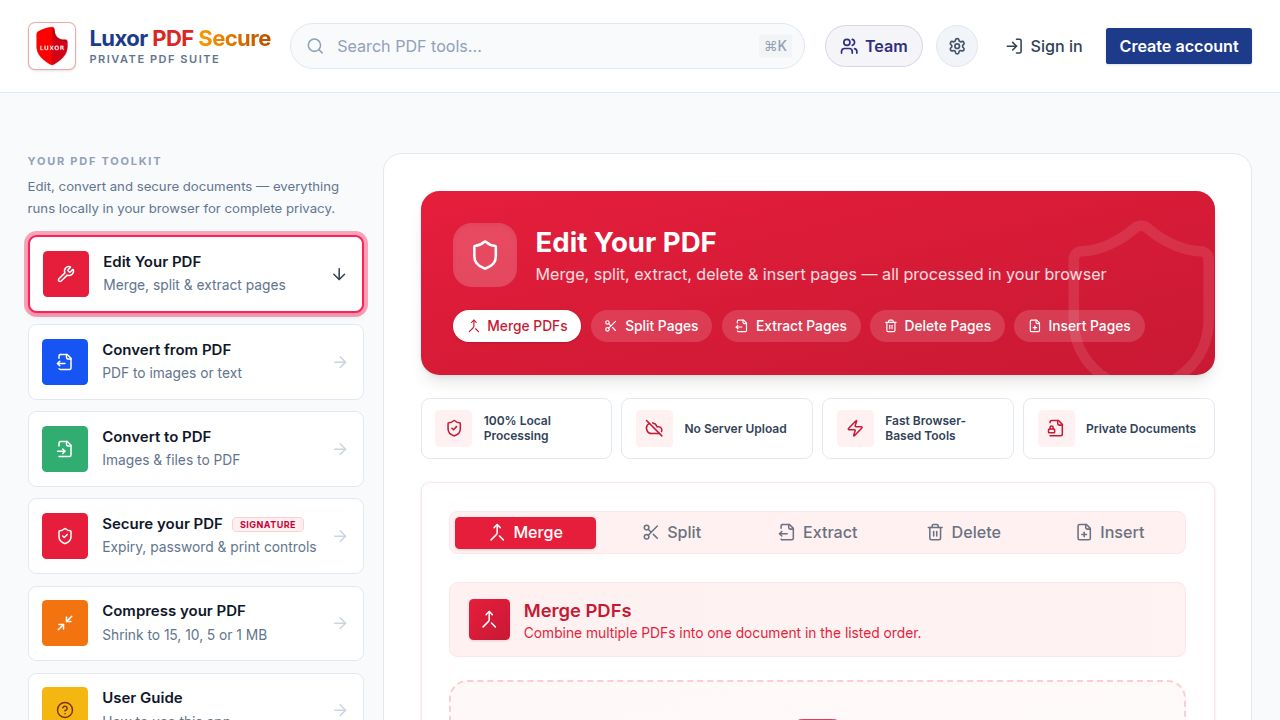
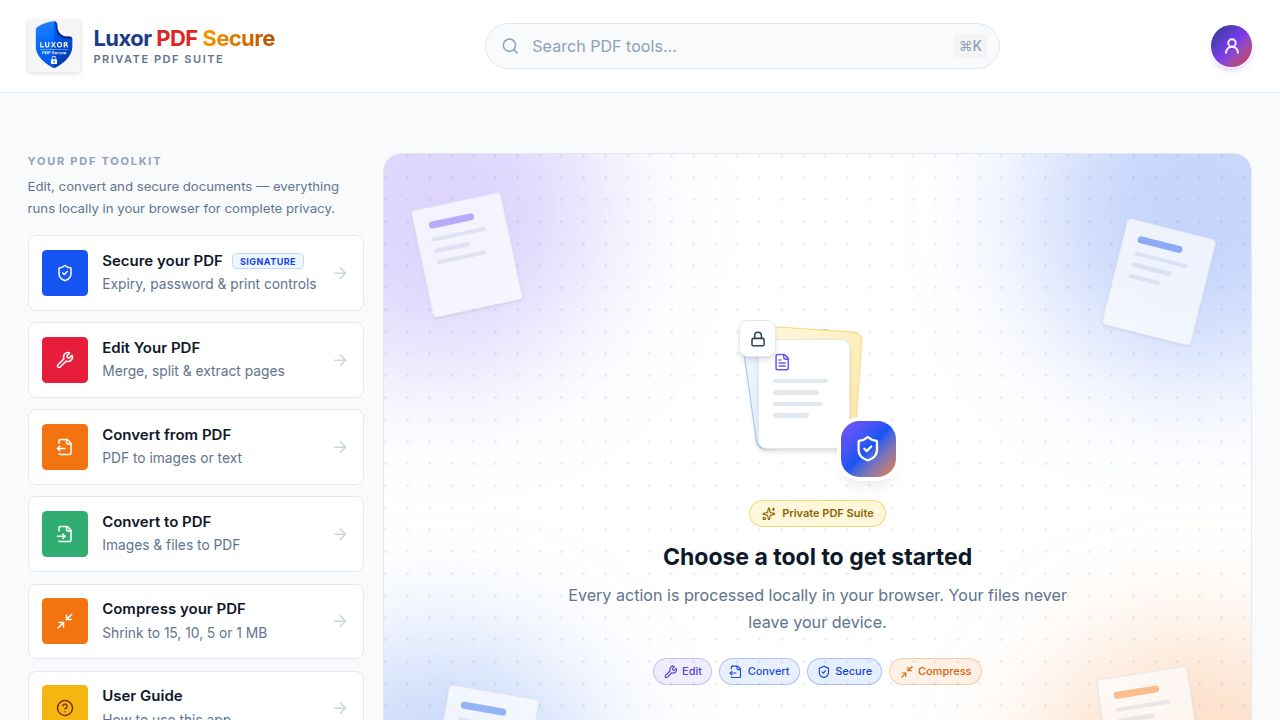
Make online PDF tools free for all users
Update authentication hooks to allow bypassing sign-in and quota checks for online tools like convert, compress, and edit.

Replit-Commit-Author: Agent
Replit-Commit-Session-Id: 4e355f6e-68d5-45e4-8c24-68816a891cd0
Replit-Commit-Checkpoint-Type: full_checkpoint
Replit-Commit-Event-Id: 1de909a3-0dd3-408e-be0e-287b009e9999
Replit-Commit-Screenshot-Url: https://storage.googleapis.com/screenshot-production-us-central1/4170004a-1faf-4c15-ace7-247f51abd493/4e355f6e-68d5-45e4-8c24-68816a891cd0/LHctmcE
Replit-Helium-Checkpoint-Created: true

diff --git a/artifacts/lexsecure-landing/src/pages/online-tools.tsx b/artifacts/lexsecure-landing/src/pages/online-tools.tsx
@@ -5,13 +5,11 @@ import {
   FileInput,
   Minimize2,
   ArrowRight,
-  Lock,
   Zap,
   ShieldCheck,
 } from "lucide-react";
 import { Navbar } from "@/components/layout/Navbar";
 import { Footer } from "@/components/layout/Footer";
-import { goToSignIn, goToSignUp } from "@/lib/authUrls";
 
 /**
  * Online Tools landing page.
@@ -21,11 +19,9 @@ import { goToSignIn, goToSignUp } from "@/lib/authUrls";
  * is reserved for the Luxor PDF Secure desktop app.
  *
  * Each "Open tool" CTA links to the corresponding route inside the
- * `pdf-expiry` artifact. That artifact enforces:
- *   - Sign-in is mandatory (anonymous users are redirected to /sign-in
- *     with a redirect_url back to the requested tool).
- *   - Free accounts get a 5-actions-per-day shared quota across all
- *     tools, enforced server-side in `getLicenseStatus` / `recordUsage`.
+ * `pdf-expiry` artifact. These tools are free for everyone: no sign-in
+ * and no usage quota (the upload/guard gates are bypassed for them).
+ * Only "Secure your PDF" (password & expiry) remains paid/gated.
  */
 
 const SUITE_BASE = "/pdf-expiry";
@@ -110,17 +106,16 @@ export default function OnlineToolsPage() {
               Online PDF Tools
             </h1>
             <p className="mt-4 text-lg text-slate-600 max-w-2xl mx-auto">
-              Edit, convert and compress your PDFs straight from the web.
-              Sign in to use any tool — your free account includes{" "}
+              Edit, convert and compress your PDFs straight from the web —{" "}
               <span className="font-semibold text-[#1E1B4B]">
-                2 free actions every 24 hours
-              </span>{" "}
-              across the whole suite.
+                free for everyone
+              </span>
+              , with no account or sign-in required.
             </p>
 
-            <div className="mt-6 inline-flex items-center gap-2 px-3 py-1.5 rounded-full text-xs font-medium bg-amber-50 text-amber-800 border border-amber-200">
-              <Lock className="w-3.5 h-3.5" />
-              Sign-in required · Free account is enough
+            <div className="mt-6 inline-flex items-center gap-2 px-3 py-1.5 rounded-full text-xs font-medium bg-emerald-50 text-emerald-800 border border-emerald-200">
+              <Zap className="w-3.5 h-3.5" />
+              Free to use · No sign-in needed
             </div>
           </motion.div>
         </section>
@@ -165,7 +160,7 @@ export default function OnlineToolsPage() {
           </div>
         </section>
 
-        {/* ── Why sign-in / quota strip ────────────────────────── */}
+        {/* ── Free & private strip ─────────────────────────────── */}
         <section className="container mx-auto px-6 max-w-5xl mt-20">
           <motion.div
             initial="hidden"
@@ -174,36 +169,16 @@ export default function OnlineToolsPage() {
             variants={FADE_UP}
             className="rounded-2xl bg-gradient-to-br from-[#312E81] via-[#3730A3] to-[#2563EB] p-8 md:p-10 text-white shadow-xl shadow-[#312E81]/20"
           >
-            <div className="grid md:grid-cols-3 gap-6 items-center">
-              <div className="md:col-span-2">
-                <h2 className="text-2xl font-bold">
-                  Why we ask you to sign in
-                </h2>
-                <p className="mt-2 text-white/80 leading-relaxed">
-                  Your account is what tracks the 2-action daily quota and
-                  keeps your work history available across devices. New
-                  here? Creating an account takes 30 seconds — no credit
-                  card required.
-                </p>
-              </div>
-              <div className="flex md:flex-col gap-3 md:items-end">
-                <button
-                  type="button"
-                  onClick={goToSignUp}
-                  className="inline-flex items-center justify-center gap-2 rounded-lg bg-white text-[#312E81] font-semibold px-5 py-2.5 shadow-md hover:shadow-lg hover:-translate-y-0.5 transition-all"
-                  data-testid="online-tools-create-account"
-                >
-                  Create free account
-                </button>
-                <button
-                  type="button"
-                  onClick={goToSignIn}
-                  className="inline-flex items-center justify-center gap-2 rounded-lg bg-white/10 text-white font-semibold px-5 py-2.5 border border-white/30 hover:bg-white/20 transition-all"
-                  data-testid="online-tools-sign-in"
-                >
-                  I already have an account
-                </button>
-              </div>
+            <div className="max-w-2xl">
+              <h2 className="text-2xl font-bold">
+                Free, and it stays in your browser
+              </h2>
+              <p className="mt-2 text-white/80 leading-relaxed">
+                Every tool here is free to use — no account, no sign-in and
+                no daily limits. Your files are processed right in your
+                browser, so nothing is uploaded to a server just to edit,
+                convert or compress a PDF.
+              </p>
             </div>
           </motion.div>
         </section>

diff --git a/artifacts/pdf-expiry/src/pages/convert-tool.tsx b/artifacts/pdf-expiry/src/pages/convert-tool.tsx
@@ -122,7 +122,7 @@ function DropZone({
   const c = accentDrop
     ? { ...accentDrop, icon: "text-white" }
     : convertDropColors[colorScheme];
-  const upload = useUploadAuthGate();
+  const upload = useUploadAuthGate({ bypass: true });
 
   const handleDrop = useCallback(
     (e: React.DragEvent) => {
@@ -191,7 +191,7 @@ const IMAGE_TYPES = ["image/jpeg", "image/png", "image/webp", "image/gif", "imag
 
 function ImagesToPdf() {
   const accentBtn = useAccentBtn("from-emerald-600 to-teal-600 hover:from-emerald-700 hover:to-teal-700");
-  const guard = useGuardedAction();
+  const guard = useGuardedAction({ bypass: true });
   const [files, setFiles] = useState<File[]>([]);
   const [loading, setLoading] = useState(false);
   const [error, setError] = useState<string | null>(null);
@@ -288,7 +288,7 @@ function ImagesToPdf() {
 
 function WordToPdf() {
   const accentBtn = useAccentBtn("from-sky-600 to-blue-700 hover:from-sky-700 hover:to-blue-800");
-  const guard = useGuardedAction();
+  const guard = useGuardedAction({ bypass: true });
   const [file, setFile] = useState<File | null>(null);
   const [done, setDone] = useState(false);
   const [loading, setLoading] = useState(false);
@@ -466,7 +466,7 @@ function WordToPdf() {
 
 function ExcelToPdf() {
   const accentBtn = useAccentBtn("from-lime-600 to-green-700 hover:from-lime-700 hover:to-green-800");
-  const guard = useGuardedAction();
+  const guard = useGuardedAction({ bypass: true });
   const [file, setFile] = useState<File | null>(null);
   const [sheetCount, setSheetCount] = useState<number | null>(null);
   const [done, setDone] = useState(false);
@@ -658,7 +658,7 @@ type ImageFormatValue = typeof IMAGE_FORMATS[number]["value"];
 
 function PdfToImages() {
   const accentBtn = useAccentBtn("from-orange-500 to-amber-500 hover:from-orange-600 hover:to-amber-600");
-  const guard = useGuardedAction();
+  const guard = useGuardedAction({ bypass: true });
   const [file, setFile] = useState<File | null>(null);
   const [pageCount, setPageCount] = useState<number | null>(null);
   const [scale, setScale] = useState<number>(2);
@@ -863,7 +863,7 @@ function PdfToImages() {
 // ─── PDF → Word ───────────────────────────────────────────────────────────────
 
 function PdfToWord() {
-  const guard = useGuardedAction();
+  const guard = useGuardedAction({ bypass: true });
   const accentBtn = useAccentBtn("from-amber-500 to-yellow-500 hover:from-amber-600 hover:to-yellow-600");
   const [file, setFile] = useState<File | null>(null);
   const [pageCount, setPageCount] = useState<number | null>(null);
@@ -1110,7 +1110,7 @@ function PdfToWord() {
 // ─── PDF → Excel ──────────────────────────────────────────────────────────────
 
 function PdfToExcel() {
-  const guard = useGuardedAction();
+  const guard = useGuardedAction({ bypass: true });
   const accentBtn = useAccentBtn("from-green-600 to-emerald-700 hover:from-green-700 hover:to-emerald-800");
   const [file, setFile] = useState<File | null>(null);
   const [pageCount, setPageCount] = useState<number | null>(null);

diff --git a/artifacts/pdf-expiry/src/pages/pdf-tool.tsx b/artifacts/pdf-expiry/src/pages/pdf-tool.tsx
@@ -70,7 +70,7 @@ function FileDropZone({
   const inputRef = useRef<HTMLInputElement>(null);
   const accentDrop = useAccentDrop();
   const c = accentDrop ? { ...accentDrop, icon: "text-white" } : dropColors[colorScheme];
-  const upload = useUploadAuthGate();
+  const upload = useUploadAuthGate({ bypass: true });
 
   const handleDrop = useCallback(
     (e: React.DragEvent) => {
@@ -158,7 +158,7 @@ async function readFileAsArrayBuffer(file: File): Promise<ArrayBuffer> {
 
 function MergeTab() {
   const accentBtn = useAccentBtn("from-violet-600 to-indigo-600 hover:from-violet-700 hover:to-indigo-700");
-  const guard = useGuardedAction();
+  const guard = useGuardedAction({ bypass: true });
   const [files, setFiles] = useState<File[]>([]);
   const [loading, setLoading] = useState(false);
   const [error, setError] = useState<string | null>(null);
@@ -256,7 +256,7 @@ function MergeTab() {
 
 function SplitTab() {
   const accentBtn = useAccentBtn("from-indigo-600 to-blue-600 hover:from-indigo-700 hover:to-blue-700");
-  const guard = useGuardedAction();
+  const guard = useGuardedAction({ bypass: true });
   const [file, setFile] = useState<File | null>(null);
   const [pageCount, setPageCount] = useState<number | null>(null);
   const [loading, setLoading] = useState(false);
@@ -383,7 +383,7 @@ function SplitTab() {
 
 function ExtractTab() {
   const accentBtn = useAccentBtn("from-purple-600 to-violet-600 hover:from-purple-700 hover:to-violet-700");
-  const guard = useGuardedAction();
+  const guard = useGuardedAction({ bypass: true });
   const [file, setFile] = useState<File | null>(null);
   const [pageCount, setPageCount] = useState<number | null>(null);
   const [selectedPages, setSelectedPages] = useState<Set<number>>(new Set());
@@ -597,7 +597,7 @@ function ExtractTab() {
 
 function DeleteTab() {
   const accentBtn = useAccentBtn("from-rose-600 to-red-600 hover:from-rose-700 hover:to-red-700");
-  const guard = useGuardedAction();
+  const guard = useGuardedAction({ bypass: true });
   const [file, setFile] = useState<File | null>(null);
   const [pageCount, setPageCount] = useState<number | null>(null);
   const [selectedPages, setSelectedPages] = useState<Set<number>>(new Set());
@@ -827,7 +827,7 @@ const PAGE_SIZES: Record<BlankSize, [number, number]> = {
 
 function AddTab() {
   const accentBtn = useAccentBtn("from-emerald-600 to-teal-600 hover:from-emerald-700 hover:to-teal-700");
-  const guard = useGuardedAction();
+  const guard = useGuardedAction({ bypass: true });
   const [hostFile, setHostFile] = useState<File | null>(null);
   const [hostPageCount, setHostPageCount] = useState<number | null>(null);
 

diff --git a/artifacts/pdf-expiry/src/license/useUploadAuthGate.tsx b/artifacts/pdf-expiry/src/license/useUploadAuthGate.tsx
@@ -30,13 +30,19 @@ import { basePath } from "@/lib/base-path";
  *   <input onChange={(e) => upload.requireAuth(() => handleChange(e))} />
  *   {upload.modal}
  */
-export function useUploadAuthGate() {
+export function useUploadAuthGate(options: { bypass?: boolean } = {}) {
+  const { bypass = false } = options;
   const { isLoaded, isSignedIn } = useUser();
   const [open, setOpen] = useState(false);
   const [location] = useLocation();
 
   const requireAuth = useCallback(
     (fn: () => void) => {
+      // Free tools opt out of the sign-in gate entirely.
+      if (bypass) {
+        fn();
+        return;
+      }
       // While Clerk loads we treat the user as anon — safer to show
       // the modal than to allow an unauthenticated upload to slip
       // through.
@@ -46,7 +52,7 @@ export function useUploadAuthGate() {
       }
       fn();
     },
-    [isLoaded, isSignedIn],
+    [isLoaded, isSignedIn, bypass],
   );
 
   const redirectUrl =

diff --git a/artifacts/pdf-expiry/src/license/useGuardedAction.ts b/artifacts/pdf-expiry/src/license/useGuardedAction.ts
@@ -86,7 +86,8 @@ export interface GuardedRunOptions {
  * Returns the action's resolved value, or `undefined` when the action was
  * blocked (a toast is shown automatically).
  */
-export function useGuardedAction() {
+export function useGuardedAction(options: { bypass?: boolean } = {}) {
+  const { bypass = false } = options;
   const { toast } = useToast();
   const qc = useQueryClient();
   const { signedIn, offline, status, clientLockReason } = useLicense();
@@ -99,6 +100,10 @@ export function useGuardedAction() {
       fn: ActionFn<T>,
       opts: GuardedRunOptions = {},
     ): Promise<T | undefined> => {
+      // Free tools run without any license check or usage recording.
+      if (bypass) {
+        return await fn();
+      }
       if (!signedIn) {
         toast({
           title: "Sign in required",
@@ -205,6 +210,7 @@ export function useGuardedAction() {
       return result;
     },
     [
+      bypass,
       signedIn,
       offline,
       status,

diff --git a/artifacts/pdf-expiry/src/pages/compress-pdf.tsx b/artifacts/pdf-expiry/src/pages/compress-pdf.tsx
@@ -88,7 +88,7 @@ function FileDropZone({
   const [dragging, setDragging] = useState(false);
   const inputRef = useRef<HTMLInputElement>(null);
   const accentDrop = useAccentDrop();
-  const upload = useUploadAuthGate();
+  const upload = useUploadAuthGate({ bypass: true });
 
   const handleDrop = useCallback(
     (e: React.DragEvent) => {

diff --git a/.agents/memory/secure-upload-enforcement.md b/.agents/memory/secure-upload-enforcement.md
@@ -26,3 +26,16 @@ expiry-protected PDFs for free.
 **How to apply:** any future secure-only server action (new secure routes) must carry
 its own server-side paid check via `getLicenseStatus(userId).isPaid`, not rely on the
 usage endpoints.
+
+# Online tools (Edit/Convert/Compress) are FREE — no sign-in, no quota
+
+The client-side online tools (`pdf-tool`, `convert-tool`, `compress-pdf`) are free for
+everyone. They opt out of both gates by passing `{ bypass: true }` to
+`useUploadAuthGate` and `useGuardedAction` (both hooks default `bypass:false`).
+`secure-pdf` (Password & Expiry) deliberately does NOT bypass — it stays paid/gated.
+
+**Why:** these tools run fully in the browser (no server work), so gating them added no
+security value; only the secure/expiry flow (which writes server-side) needs enforcement.
+
+**How to apply:** never globally neuter the two gate hooks — flip `bypass` only at the
+free tools' call sites. Keep `secure-pdf` un-bypassed.